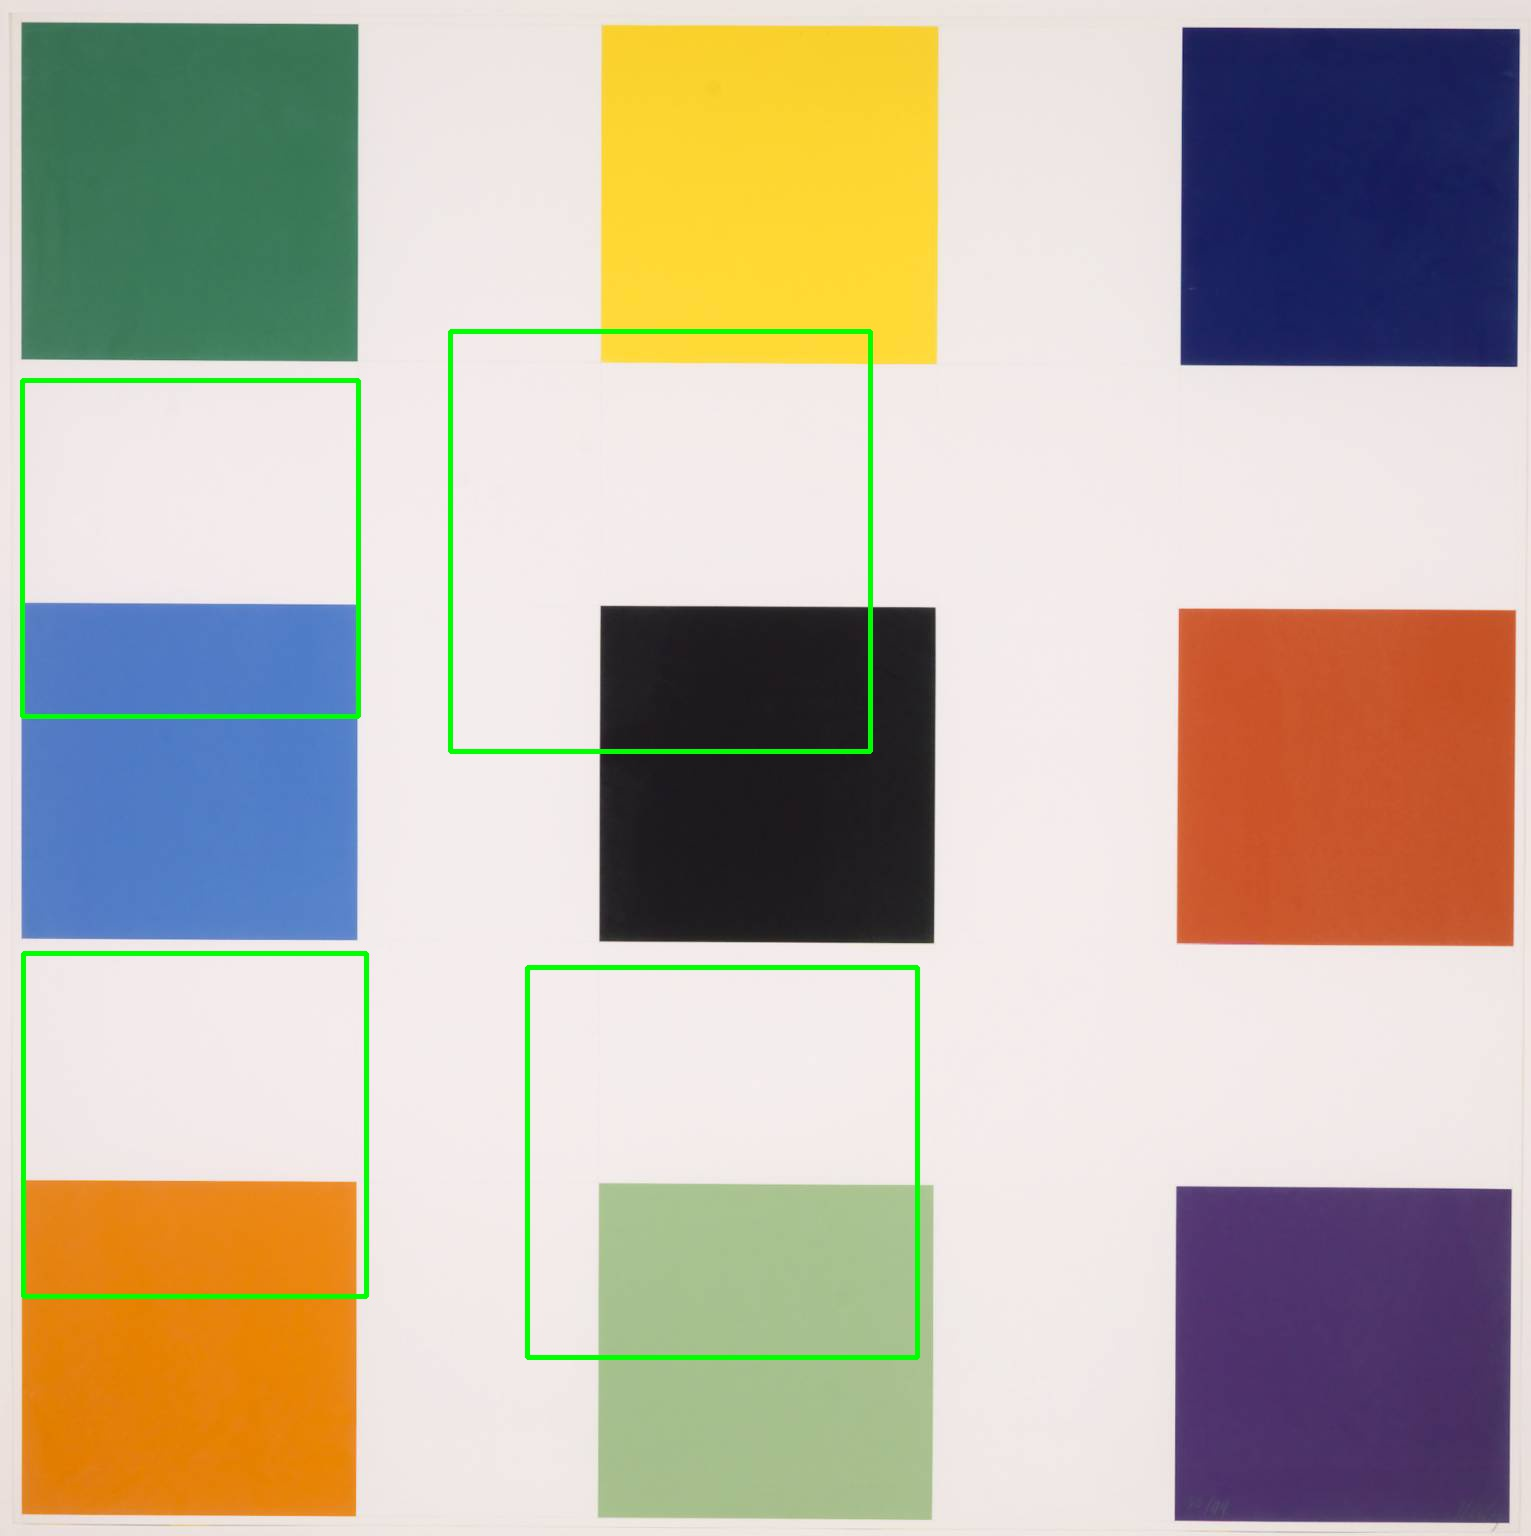
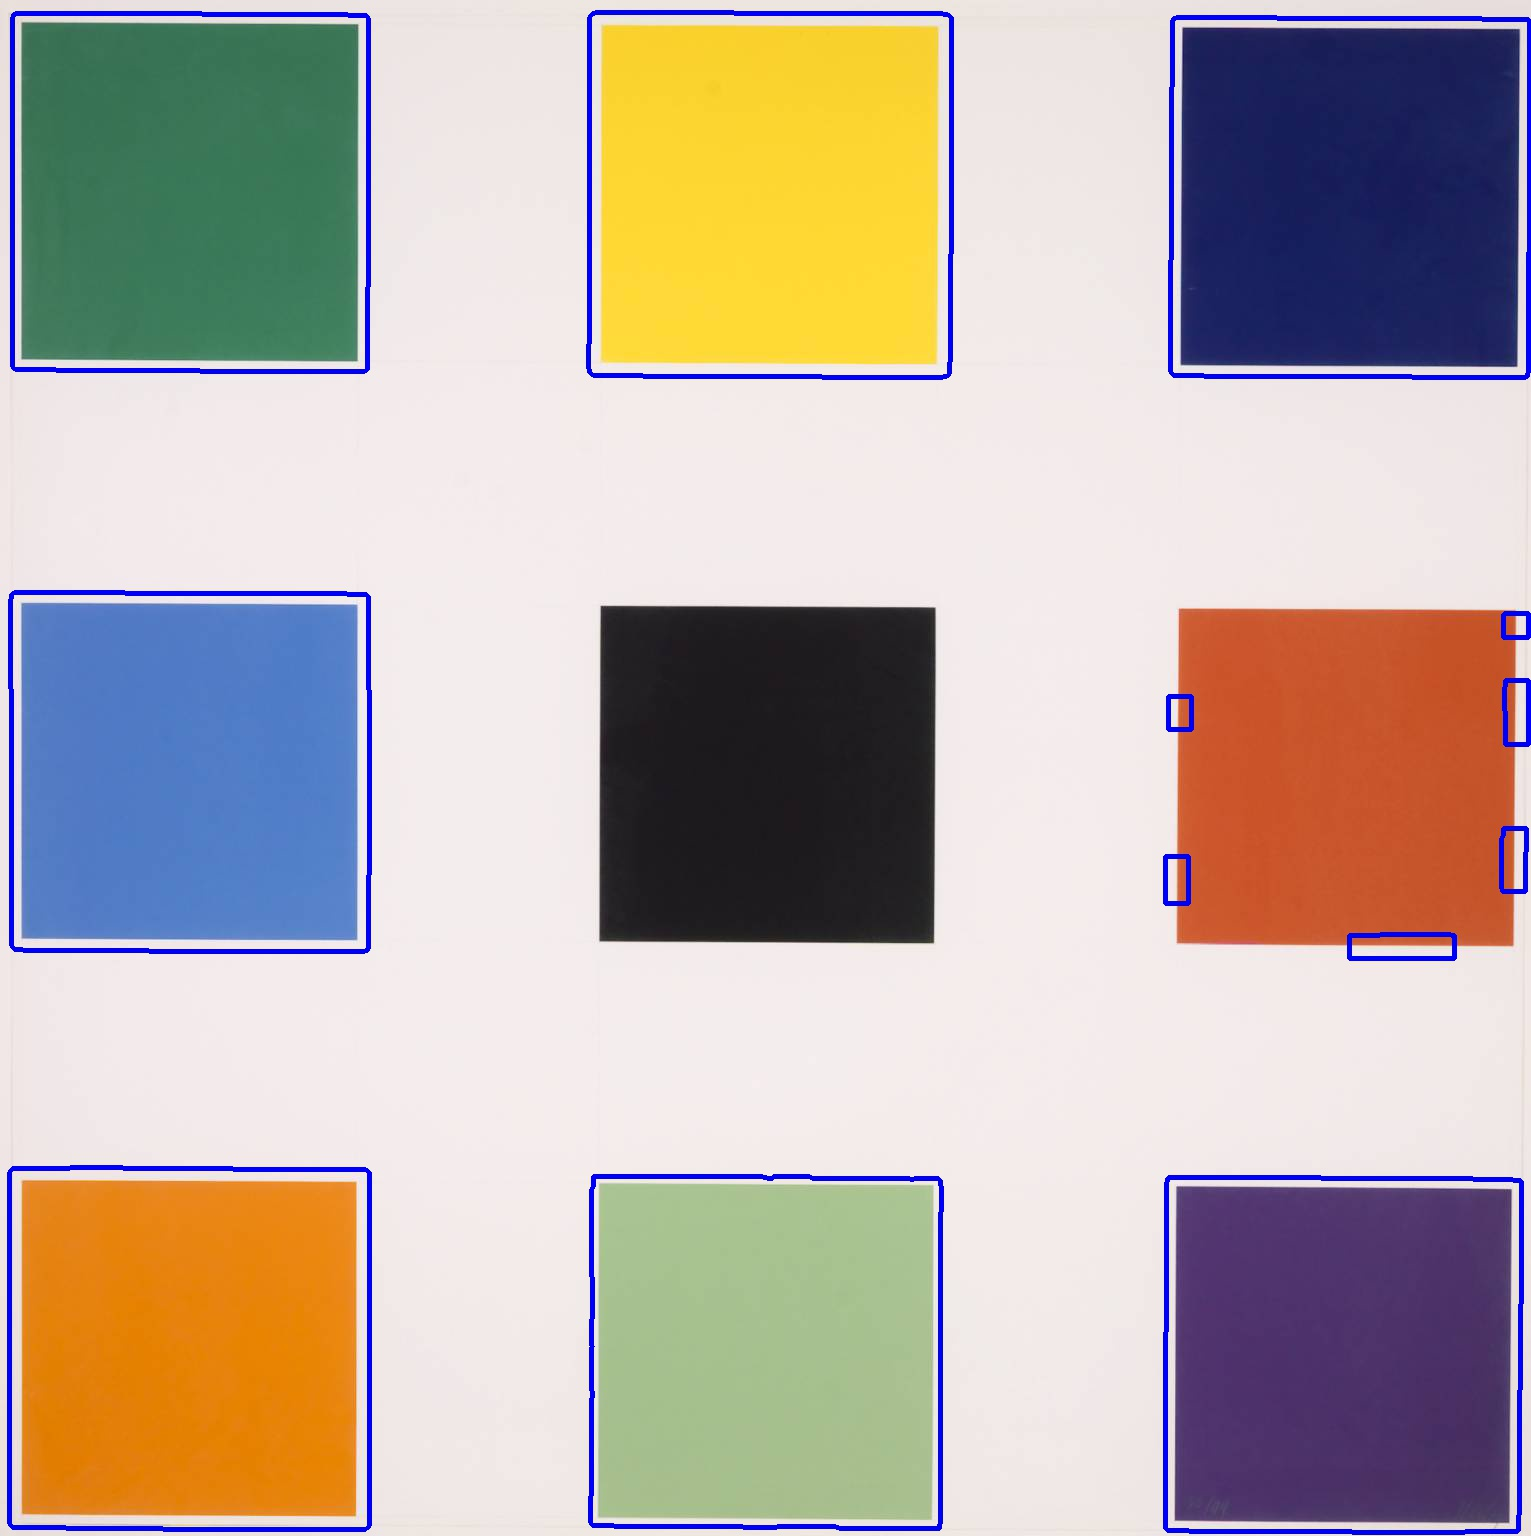
Added new better method to PicProcessing. Check it out if you can

diff --git a/EagleEyeBase/src/javaTestApp/PicProcessing.java b/EagleEyeBase/src/javaTestApp/PicProcessing.java
@@ -1,9 +1,13 @@
 package javaTestApp;
 
 import java.awt.image.BufferedImage;
+import java.util.ArrayList;
+import java.util.List;
+
 import org.opencv.core.Core;
 import org.opencv.core.CvType;
 import org.opencv.core.Mat;
+import org.opencv.core.MatOfPoint;
 import org.opencv.core.MatOfRect;
 import org.opencv.core.Rect;
 import org.opencv.core.Scalar;
@@ -54,6 +58,41 @@ public class PicProcessing {
 		
 	}
 	
+	public void DectectObject2(String loc){
+System.load("/usr/local/Cellar/opencv/2.4.12/share/OpenCV/java/libopencv_java2412.dylib");
+		
+		Mat frame = new Mat();
+		Mat blurredImage = new Mat();
+		Mat hsvImage = new Mat();
+		Mat mask = new Mat();
+		Mat morphOutput = new Mat();
+		
+		frame = Highgui.imread(loc);
+		
+		Imgproc.blur(frame, blurredImage, new Size(7, 7));
+		
+		Imgproc.cvtColor(blurredImage, hsvImage, Imgproc.COLOR_BGR2HSV);
+		
+		Scalar minValues = new Scalar(10, 60, 50);
+		Scalar maxValues = new Scalar(150, 200, 300);
+		
+		Core.inRange(hsvImage, minValues, maxValues, mask);
+		
+		Mat dilateElement = Imgproc.getStructuringElement(Imgproc.MORPH_RECT, new Size(24, 24));
+		Mat erodeElement = Imgproc.getStructuringElement(Imgproc.MORPH_RECT, new Size(12, 12));
+		
+		Imgproc.erode(mask, morphOutput, erodeElement);
+		Imgproc.erode(mask, morphOutput, erodeElement);
+		
+		Imgproc.dilate(mask, morphOutput, dilateElement);
+		Imgproc.dilate(mask, morphOutput, dilateElement);
+		
+		frame = findAndDrawBalls(morphOutput, frame);
+		
+		Highgui.imwrite("result.jpeg", frame);
+		result = "The image is a square";
+	}
+	
 	public Mat img2Mat(BufferedImage in){
 		Mat out;
         byte[] data;
@@ -89,6 +128,8 @@ public class PicProcessing {
 	}
 
 	public BufferedImage mat2Img(Mat in){
+
+		
         BufferedImage out;
         byte[] data = new byte[320 * 240 * (int)in.elemSize()];
         int type;
@@ -104,4 +145,25 @@ public class PicProcessing {
         out.getRaster().setDataElements(0, 0, 320, 240, data);
         return out;
     } 
+	
+	private Mat findAndDrawBalls(Mat maskedImage, Mat frame){
+		// init
+		List<MatOfPoint> contours = new ArrayList<>();
+		Mat hierarchy = new Mat();
+		
+		// find contours
+		Imgproc.findContours(maskedImage, contours, hierarchy, Imgproc.RETR_CCOMP, Imgproc.CHAIN_APPROX_SIMPLE);
+		
+		// if any contour exist...
+		if (hierarchy.size().height > 0 && hierarchy.size().width > 0)
+		{
+			// for each contour, display it in blue
+			for (int idx = 0; idx >= 0; idx = (int) hierarchy.get(0, idx)[0])
+			{
+				Imgproc.drawContours(frame, contours, idx, new Scalar(250, 0, 0), 3);
+			}
+		}
+		
+		return frame;
+	}
 }

diff --git a/EagleEyeBase/src/javaTestApp/DeviceTestGUI.java b/EagleEyeBase/src/javaTestApp/DeviceTestGUI.java
@@ -1,7 +1,6 @@
 package javaTestApp;
 import java.awt.image.BufferedImage;
 import java.io.File;
-
 import javax.imageio.ImageIO;
 import javafx.application.Application;
 import javafx.embed.swing.SwingFXUtils;
@@ -97,7 +96,7 @@ public class DeviceTestGUI extends Application {
 			
 			//Take in image to display
 			try {
-				picnic.DetectObject(file.getAbsolutePath());
+				picnic.DectectObject2(file.getAbsolutePath());
 				File done = new File("/Users/joelvandepolder/EagleEye/EagleEyeBase/result.jpeg");
 				BufferedImage bufImg = ImageIO.read(done);
 				Image hope = SwingFXUtils.toFXImage(bufImg, null);
